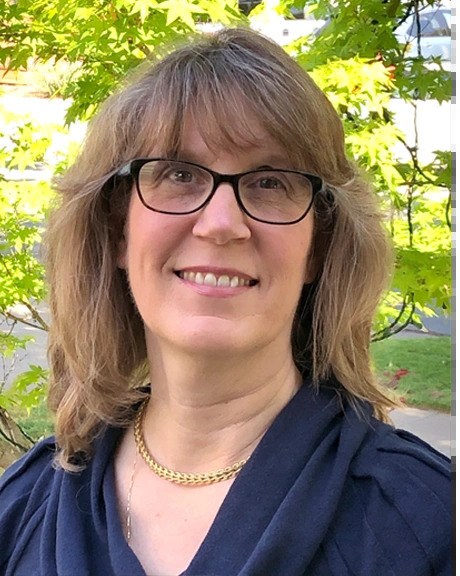
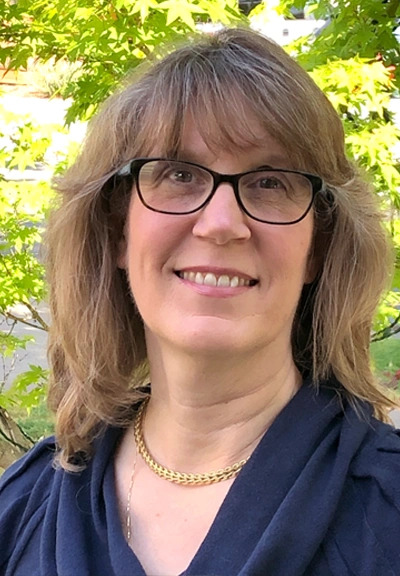
brenda: tighter crop (400x576) to fully kill the right-edge whitespace; faith partners caption: full name 'Rev. Dr. David Watermulder'

diff --git a/src/app/our-story/page.tsx b/src/app/our-story/page.tsx
@@ -244,7 +244,7 @@ export default function OurStory() {
                   className="w-full h-auto block"
                 />
                 <figcaption className="text-center font-hand text-base mt-1.5">
-                  Gabriel & Roda with Rev. Dave at PCLG
+                  Gabriel & Roda with Rev. Dr. David Watermulder at PCLG
                 </figcaption>
               </figure>
             </div>